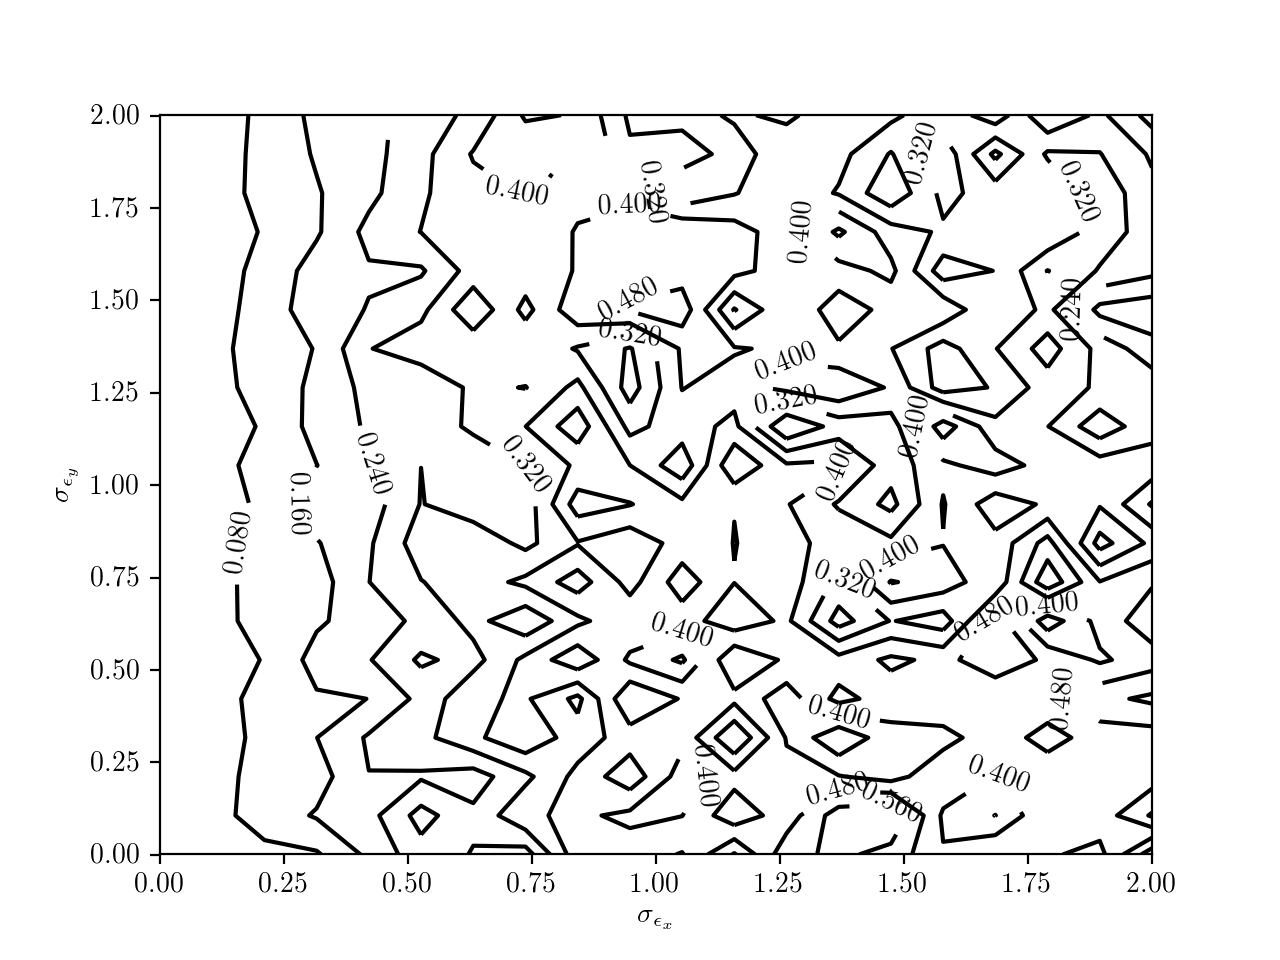
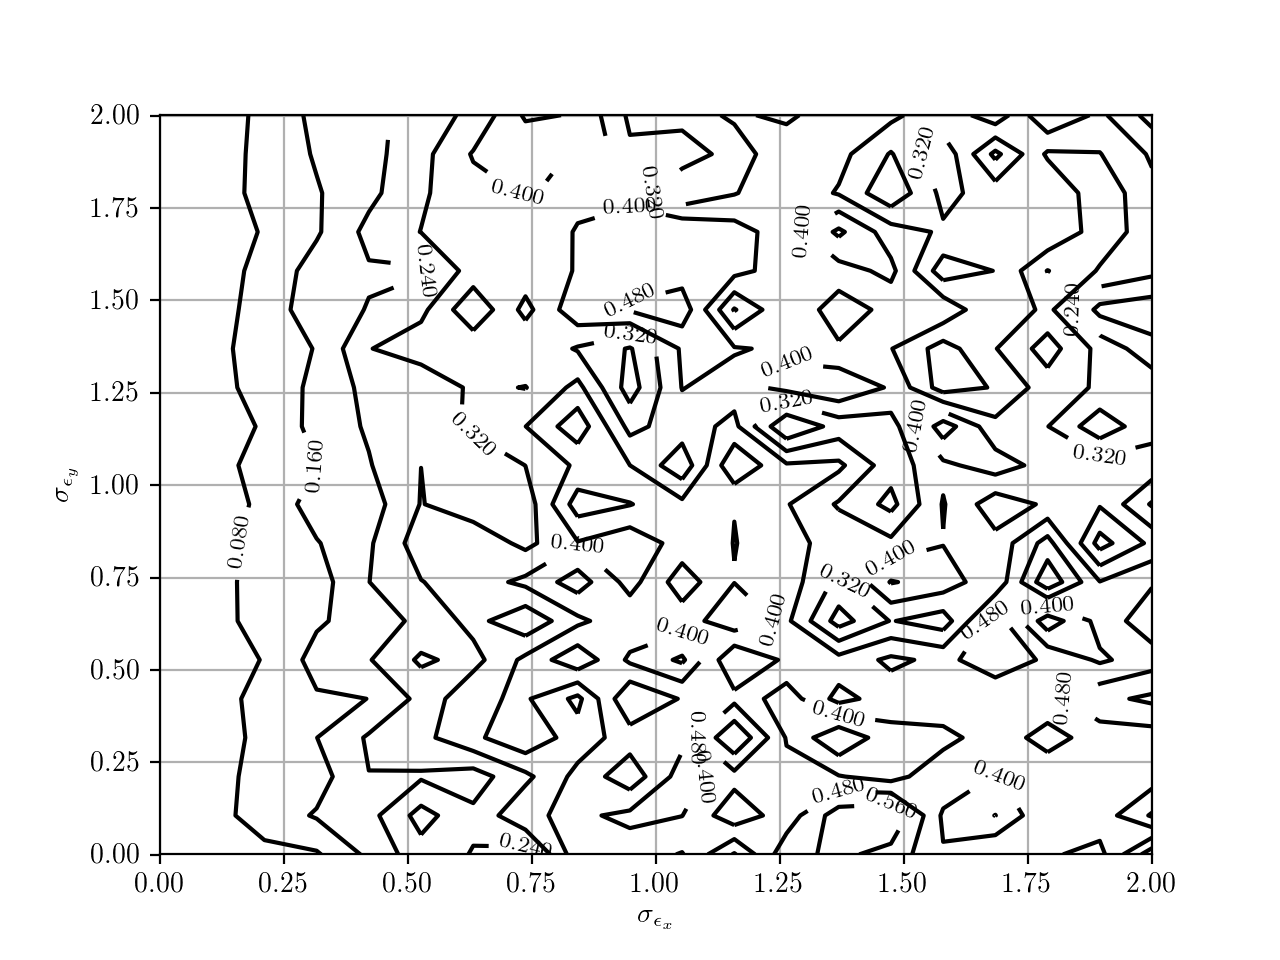
updated plots

diff --git a/plotter.py b/plotter.py
@@ -62,9 +62,10 @@ print('Avg(d_LSE-d_MRT): {}'.format(np.average(param_accs_diff)))
 plt.figure(0)
 contour_param = plt.contour(
     err_stds_x, err_stds_y, param_accs_diff,
-    colors='black')
+    colors='black', linestyles='solid')
 # plt.title('$ d_{param_{LSE}} - d_{param_{MRT}} $')
-plt.clabel(contour_param, inline=True, fontsize=10)
+plt.grid()
+plt.clabel(contour_param, inline=True, fontsize=8)
 plt.xlabel('$ \sigma_{\epsilon_x} $')
 plt.ylabel('$ \sigma_{\epsilon_y} $')
 
